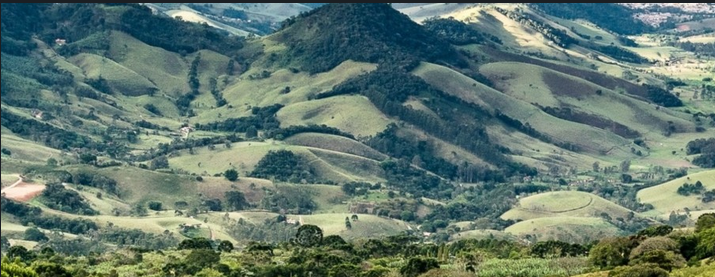
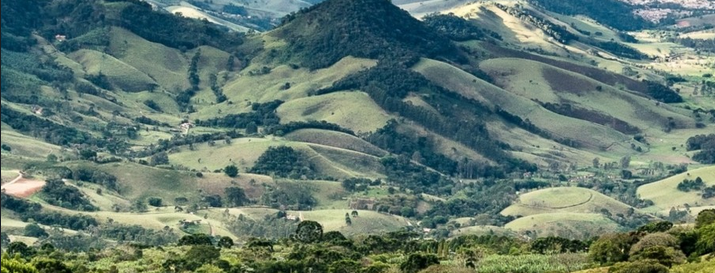
feat: ajuste detalhes

diff --git a/src/components/Footer.module.css b/src/components/Footer.module.css
@@ -38,7 +38,7 @@
 .tagline {
   color: var(--color-primary-light);
   font-style: italic;
-  margin-top: var(--spacing-md);
+  margin-top: 0.25rem;
 }
 
 .contact {
@@ -86,8 +86,26 @@
 }
 
 .bottom {
-  text-align: center;
   padding-top: var(--spacing-md);
+}
+
+.bottomContent {
+  display: grid;
+  grid-template-columns: 1fr 1fr;
+  gap: var(--spacing-2xl);
+  align-items: center;
+}
+
+.bottomLeft {
+  text-align: left;
+}
+
+.bottomRight {
+  text-align: right;
+  display: flex;
+  flex-direction: column;
+  align-items: flex-end;
+  gap: 1rem;
 }
 
 .bottom p {
@@ -96,9 +114,67 @@
   margin-bottom: 0.5rem;
 }
 
+.oab {
+  color: var(--color-primary-light);
+  font-weight: 600;
+  font-size: 0.95rem;
+}
+
 .disclaimer {
   color: rgba(255, 255, 255, 0.7);
   font-size: 0.85rem;
+}
+
+.policies {
+  display: flex;
+  gap: 1rem;
+  align-items: center;
+  justify-content: flex-end;
+  font-size: 0.9rem;
+}
+
+.policies a {
+  color: rgba(255, 255, 255, 0.9);
+  text-decoration: none;
+  transition: var(--transition-fast);
+}
+
+.policies a:hover {
+  color: var(--color-primary-light);
+}
+
+.policies span {
+  color: rgba(255, 255, 255, 0.5);
+}
+
+.social {
+  display: flex;
+  gap: 1rem;
+}
+
+.socialLink {
+  display: flex;
+  align-items: center;
+  justify-content: center;
+  width: 40px;
+  height: 40px;
+  border-radius: 50%;
+  background: rgba(255, 255, 255, 0.1);
+  color: rgba(255, 255, 255, 0.9);
+  transition: var(--transition-fast);
+  border: 1px solid rgba(255, 255, 255, 0.2);
+}
+
+.socialLink:hover {
+  background: var(--color-primary-light);
+  color: var(--color-primary);
+  border-color: var(--color-primary-light);
+}
+
+.socialIcon {
+  width: 20px;
+  height: 20px;
+  filter: brightness(0) invert(1);
 }
 
 @media (max-width: 768px) {

diff --git a/src/components/Footer.jsx b/src/components/Footer.jsx
@@ -1,4 +1,5 @@
 import { MessageCircle, Mail, Phone } from 'lucide-react';
+import linkedinIcon from '../assets/linkedin.svg';
 import styles from './Footer.module.css';
 
 export default function Footer() {
@@ -46,10 +47,19 @@ export default function Footer() {
         <div className={styles.divider}></div>
 
         <div className={styles.bottom}>
-          <p>&copy; {currentYear} Rafael Diovani - Advogado. Todos os direitos reservados.</p>
-          <p className={styles.disclaimer}>
-            Este website é meramente informativo e não constitui aconselhamento jurídico.
-          </p>
+          <div className={styles.bottomContent}>
+            <div className={styles.bottomLeft}>
+              <p>&copy; {currentYear} Rafael Diovani - Advogado. Todos os direitos reservados.</p>
+              <p className={styles.oab}>OAB/SP 444.241</p>
+            </div>
+            <div className={styles.bottomRight}>
+              <div className={styles.social}>
+                <a href="https://www.linkedin.com/in/rafael-diovani" target="_blank" rel="noopener noreferrer" className={styles.socialLink} title="LinkedIn">
+                  <img src={linkedinIcon} alt="LinkedIn" className={styles.socialIcon} />
+                </a>
+              </div>
+            </div>
+          </div>
         </div>
       </div>
     </footer>

diff --git a/src/pages/Home.jsx b/src/pages/Home.jsx
@@ -1,4 +1,4 @@
-import { Scale, Briefcase, Heart, ArrowRight } from 'lucide-react';
+import { Scale, Briefcase, Heart, Building2, FileText, ArrowRight } from 'lucide-react';
 import { Link } from 'react-router-dom';
 import {
   HeroSection,
@@ -20,6 +20,18 @@ export default function Home() {
       title: 'Societário & Contratos',
       description: 'Assessoria em sociedades, associações, fundações e elaboração de contratos.',
       link: '/servicos/societario-contratos'
+    },
+    {
+      icon: FileText,
+      title: 'Falências & Recuperações',
+      description: 'Atuação em falências, recuperações de empresas e reestruturações de dívidas.',
+      link: '/servicos/falencias-recuperacoes'
+    },
+    {
+      icon: Building2,
+      title: 'Imobiliário & Leilões',
+      description: 'Desenvolvimento de empreendimentos, transações imobiliárias e leilões.',
+      link: '/servicos/imobiliario-leiloes'
     },
     {
       icon: Heart,
@@ -51,7 +63,7 @@ export default function Home() {
           </div>
           <div className={styles.viewAllButtonContainer}>
             <Link to="/servicos" className={styles.viewAllButton}>
-              <strong>Ver Todos os Serviços</strong>
+              <strong>Ver mais sobre os serviços</strong>
               <ArrowRight size={20} />
             </Link>
           </div>

diff --git a/src/App.jsx b/src/App.jsx
@@ -1,4 +1,5 @@
-import { BrowserRouter as Router, Routes, Route } from 'react-router-dom';
+import { BrowserRouter as Router, Routes, Route, useLocation } from 'react-router-dom';
+import { useEffect } from 'react';
 import { Header, Footer, FloatingWhatsApp } from './components';
 import {
   Home,
@@ -10,9 +11,20 @@ import {
 import './styles/global.css';
 import styles from './App.module.css';
 
+function ScrollToTop() {
+  const { pathname } = useLocation();
+
+  useEffect(() => {
+    window.scrollTo(0, 0);
+  }, [pathname]);
+
+  return null;
+}
+
 function App() {
   return (
     <Router>
+      <ScrollToTop />
       <div className={styles.app}>
         <Header />
         <main className={styles.main}>

diff --git a/src/pages/Services.jsx b/src/pages/Services.jsx
@@ -20,18 +20,18 @@ export default function Services() {
       shortDescription: 'Estruturação de negócios e documentação jurídica'
     },
     {
-      id: 'familia-sucessoes',
-      icon: Heart,
-      title: 'Família & Sucessões',
-      description: 'Planejamento sucessório, testamentos e litígios familiares com sensibilidade.',
-      shortDescription: 'Solução em questões familiares e hereditárias'
-    },
-    {
       id: 'falencias-recuperacoes',
       icon: FileText,
       title: 'Falências & Recuperações',
       description: 'Atuação em falências, recuperações de empresas e reestruturações de dívidas.',
       shortDescription: 'Proteção de créditos e administração judicial'
+    },
+    {
+      id: 'familia-sucessoes',
+      icon: Heart,
+      title: 'Família & Sucessões',
+      description: 'Planejamento sucessório, testamentos e litígios familiares com sensibilidade.',
+      shortDescription: 'Solução em questões familiares e hereditárias'
     },
     {
       id: 'imobiliario-leiloes',

diff --git a/src/components/HeroSection.module.css b/src/components/HeroSection.module.css
@@ -1,10 +1,11 @@
 .hero {
   background-size: cover;
-  background-position: center;
+  background-position: center 10%;
   background-attachment: scroll;
+  background-repeat: no-repeat;
   color: var(--color-white);
   padding: var(--spacing-3xl) var(--spacing-lg);
-  min-height: 600px;
+  min-height: 700px;
   display: flex;
   align-items: center;
   animation: fadeIn 0.8s ease-in-out;

diff --git a/src/components/HeroSection.jsx b/src/components/HeroSection.jsx
@@ -1,7 +1,7 @@
 import { MessageCircle } from 'lucide-react';
 import { useNavigate } from 'react-router-dom';
 import styles from './HeroSection.module.css';
-import naturezaImg from '../assets/natureza.png';
+import saopauloImg from '../assets/sao-paulo.avif';
 
 export default function HeroSection({ title, subtitle, cta, image = null }) {
   const navigate = useNavigate();
@@ -15,7 +15,7 @@ export default function HeroSection({ title, subtitle, cta, image = null }) {
   };
 
   return (
-    <section className={styles.hero} style={{ backgroundImage: `url(${naturezaImg})` }}>
+    <section className={styles.hero} style={{ backgroundImage: `url(${saopauloImg})` }}>
       <div className={styles.content}>
         <div className={styles.textContent}>
           <h1 className={styles.title}>{title}</h1>

diff --git a/src/pages/Contact.jsx b/src/pages/Contact.jsx
@@ -1,8 +1,12 @@
+import { useEffect } from 'react';
 import { Mail, Phone, MessageCircle, MapPin } from 'lucide-react';
 import { ContactForm } from '../components';
 import styles from './Contact.module.css';
 
 export default function Contact() {
+  useEffect(() => {
+    window.scrollTo(0, 0);
+  }, []);
   return (
     <div className={styles.contact}>
       {/* Hero Section */}